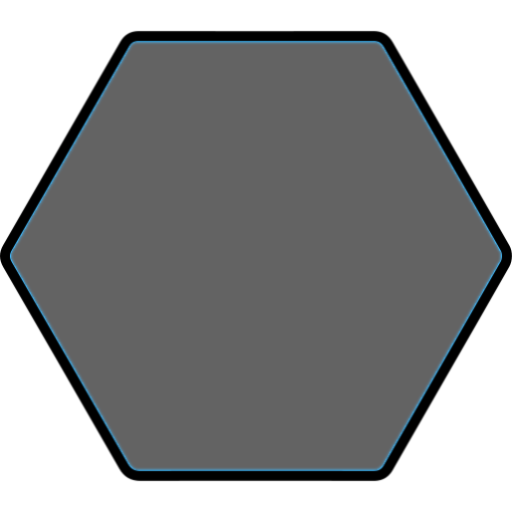
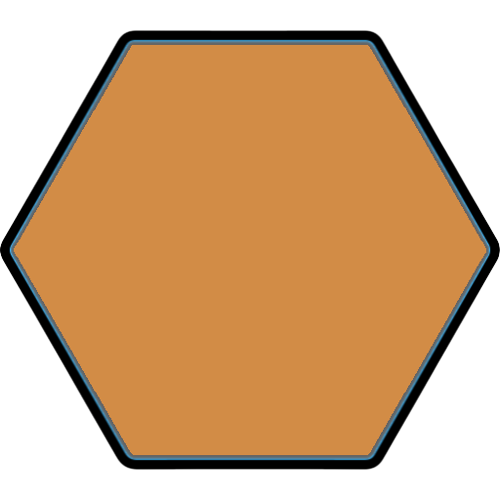
Changed the colors. Started piece movement and made it so that pieces will be detected on tiles or tiles alone.

diff --git a/app.js b/app.js
@@ -104,17 +104,18 @@ class Tile {
     createTile() {
         var tile = document.createElement("img");
         tile.setAttribute("class", "tile");
-        tile.setAttribute("id", this.tileId + "-tile");
+        tile.setAttribute("id", this.tileId + "-t");
 
         if (this.row % 3 === 1) {
-            var path = "tile2.png"
+            var path = "tile1.png"
         } else if (this.row % 3 === 2) {
             var path = "tile3.png"
         } else if (this.row % 3 === 0) {
-            var path = "tile1.png"
+            var path = "tile2.png"
         }
         tile.src = "img/tiles/" + path;
         document.getElementById(this.containerId).appendChild(tile);
+        tile.addEventListener("click", handleclick);
     }
 
     // Create a piece in the same div as the tile
@@ -125,8 +126,9 @@ class Tile {
             
             piece.src = "img/pieces/" + pieceLocations[this.tuple];
             piece.setAttribute("class", "piece");
-            piece.setAttribute("id", this.tileId + "-piece");
+            piece.setAttribute("id", this.tileId + "-p");
             document.getElementById(this.containerId).appendChild(piece);
+            piece.addEventListener("click", handleclick);
         }
     }
 }
@@ -149,6 +151,16 @@ for (var i = 0; i < 21; i++) {
             tile.createContainer();
             tile.createTile();
             tile.loadPiece();
+        }
+    }
+}
+
+// Move Piece
+function handleclick() {
+    console.log(this.id)
+    if (this.id.slice(-1) === "t") {
+        if (this.nextElementSibling != null) {
+            console.log("sibling", this.nextElementSibling)
         }
     }
 }

diff --git a/styles.css b/styles.css
@@ -36,19 +36,18 @@ body {
 .tile {
     width: 60;
     height: 60;
-    padding: 0 15;
-    z-index: 0;
+    
 }
 
 .piece {
     position: absolute;
     width: 35;
     height: 35;
-    right: 28;
+    right: 13;
     bottom: 15;
-    z-index: 1;
 }
 
 .container {
     position: relative;
+    margin: 0 15;
 }
